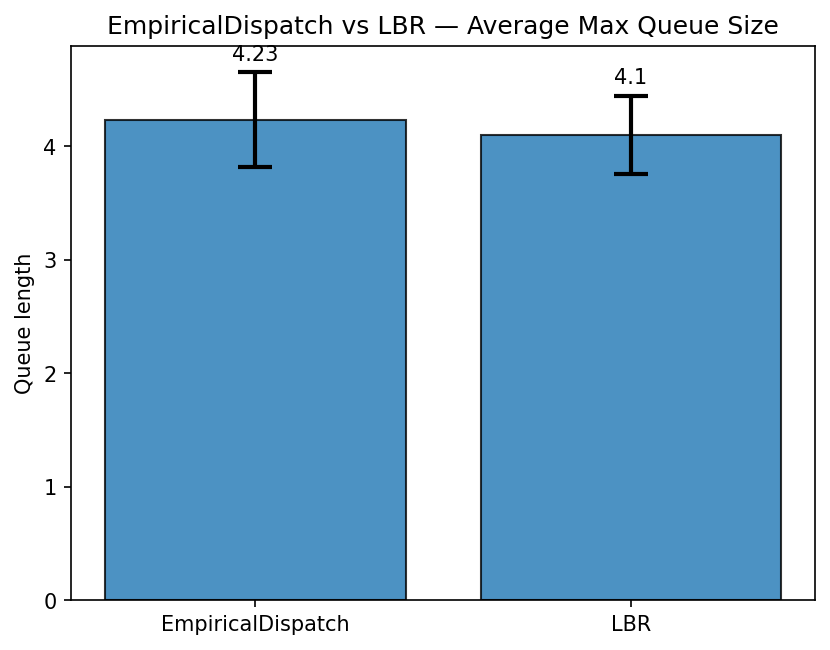
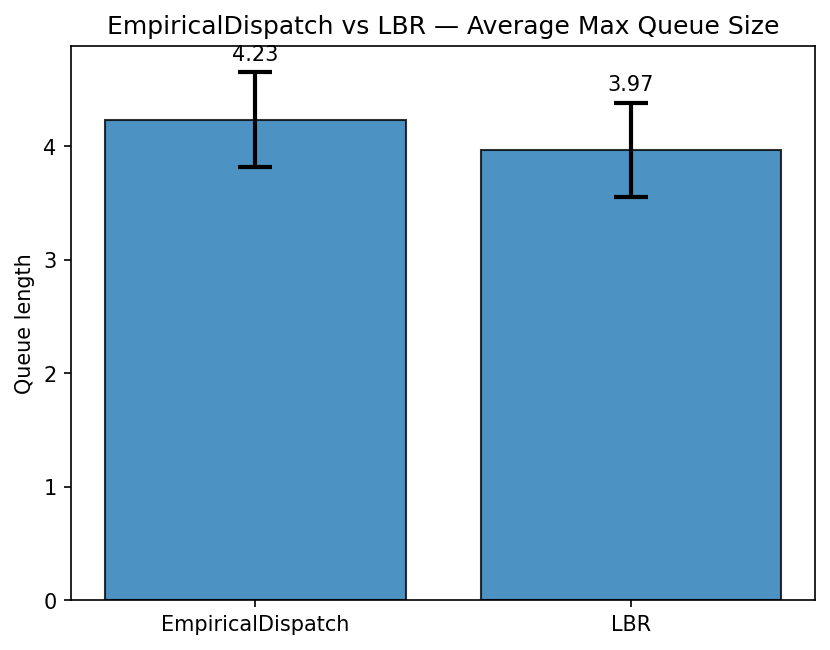
Added Three polisies comparison

diff --git a/fire_emergency_simulation/project.py b/fire_emergency_simulation/project.py
@@ -3,13 +3,15 @@ import logging
 import pandas as pd
 import numpy as np
 import os
-
+from typing import Set, Dict, Optional, List, Tuple,Any
 from analysis import run_simulation_with_policies, generate_random_times
 from policies import LBR, EmpiricalDispatch, MinP95
 from models import Vehicle
 from config import NUM_AREA, NUM_PARAMETER_SETS, NUM_REPLICATIONS, SIMULATION_TIME, NUM_SAMPLES
 from globals import globs
 from plots import generate_policy_comparison_plots
+from wining_scores import get_statistique_score, get_score_and_save_CI
+
 
 # ---------------------------------------------------
 # Logging
@@ -181,7 +183,19 @@ def summarize_replication_results(p1_results, p2_results, name_p1_vs_p2):
         policy1_loads.append(p1_load)
         policy2_loads.append(p2_load)
 
+    # One-sided Wilcoxon at alpha=0.10: tests whether Policy 2 < Policy 1 (better if lower P90)
+    _wilcoxon_win = get_statistique_score(
+        policy1_percentiles, policy2_percentiles,
+        name_p1_vs_p2, path="replication_results.xlsx"
+    )
+
+    # 90% CI overlap summary (p2_win/teko saved). Sheet name = comparison name.
+    _p2_wins, _tekos = get_score_and_save_CI(
+        policy1_percentiles, policy2_percentiles,
+        name_p1_vs_p2, path="replication_results.xlsx"
+    )
     # light in-memory summary (no extra Excel files produced)
+
     return {
         'avg_policy1_load': float(np.mean(policy1_loads)) if policy1_loads else np.nan,
         'avg_policy2_load': float(np.mean(policy2_loads)) if policy2_loads else np.nan,

diff --git a/fire_emergency_simulation/config.py b/fire_emergency_simulation/config.py
@@ -1,6 +1,6 @@
 # Constants for simulation
 NUM_PARAMETER_SETS = 1
-NUM_REPLICATIONS = 30
+NUM_REPLICATIONS = 150
 NUM_AREA = 5
 
 SIMULATION_TIME = 1000000
